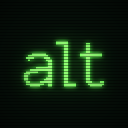
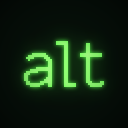
Brand: drop scanlines
Compared none / subtle / strong side by side. Without scanlines the
bloom and vignette carry the monitor look on their own and the
letterforms stay clean, which is the better read at every size - the
lines were competing with the type on the wordmark and degenerating
into noise on the 128px icon, where each source pixel is only two
pixels tall.

Removed the constants and the scanline pass outright rather than
leaving them switched off.

Changed region(s): [[0.1562, 0.4062, 0.4375, 0.6875], [0.5938, 0.3438, 0.8125, 0.6875], [0.4375, 0.3125, 0.5938, 0.6875]]

diff --git a/brand/gen_logo.py b/brand/gen_logo.py
@@ -9,7 +9,7 @@ font's own hinting rather than from hand-drawn approximations of it.
 
 The CRT pass deliberately avoids a brightness gradient across the
 glyphs. A monochrome phosphor monitor lights every lit pixel equally;
-the depth comes from bloom, scanlines and vignette, not from shading
+the depth comes from bloom and vignette, not from shading
 the letters.
 
 Requires Pillow:  python3 -m venv venv && venv/bin/pip install Pillow
@@ -41,8 +41,6 @@ BLOOM_TIGHT_GAIN = 0.85
 BLOOM_WIDE_RADIUS = 9.0
 BLOOM_WIDE_GAIN = 0.45
 
-SCANLINE_EVERY = 3
-SCANLINE_FACTOR = 0.62
 VIGNETTE_STRENGTH = 0.55
 
 
@@ -122,19 +120,8 @@ def vignette(img, strength):
     return ImageChops.multiply(img, Image.merge("RGB", (grad, grad, grad)))
 
 
-def scanlines(img, every, factor):
-    px = img.load()
-    w, h = img.size
-    for y in range(every - 1, h, every):
-        for x in range(w):
-            r, g, b = px[x, y][:3]
-            px[x, y] = (int(r * factor), int(g * factor), int(b * factor))
-    return img
-
-
 def crt(mask, transparent):
-    """Compose the monitor look: flat phosphor text, bloom, scanlines,
-    vignette."""
+    """Compose the monitor look: flat phosphor text, bloom, vignette."""
     size = mask.size
     core = Image.new("RGB", size, (0, 0, 0))
     core.paste(Image.new("RGB", size, PHOSPHOR), mask=mask)
@@ -152,9 +139,7 @@ def crt(mask, transparent):
         return out
 
     screen = ImageChops.add(Image.new("RGB", size, SCREEN_BG), lit)
-    screen = scanlines(screen, SCANLINE_EVERY, SCANLINE_FACTOR)
-    screen = vignette(screen, VIGNETTE_STRENGTH)
-    return screen.convert("RGBA")
+    return vignette(screen, VIGNETTE_STRENGTH).convert("RGBA")
 
 
 def main():
@@ -170,7 +155,7 @@ def main():
     # Square 128x128 mod icon. The mask is centred on the full canvas
     # and the CRT pass runs over the whole thing - treating a smaller
     # image and pasting it left a visible rectangular seam where the
-    # scanlines and vignette stopped.
+    # vignette stopped.
     art = upscaled_mask(rows, w, h, scale=2, pad=0)
     icon_mask = Image.new("L", (128, 128), 0)
     icon_mask.paste(art, ((128 - art.width) // 2, (128 - art.height) // 2))
